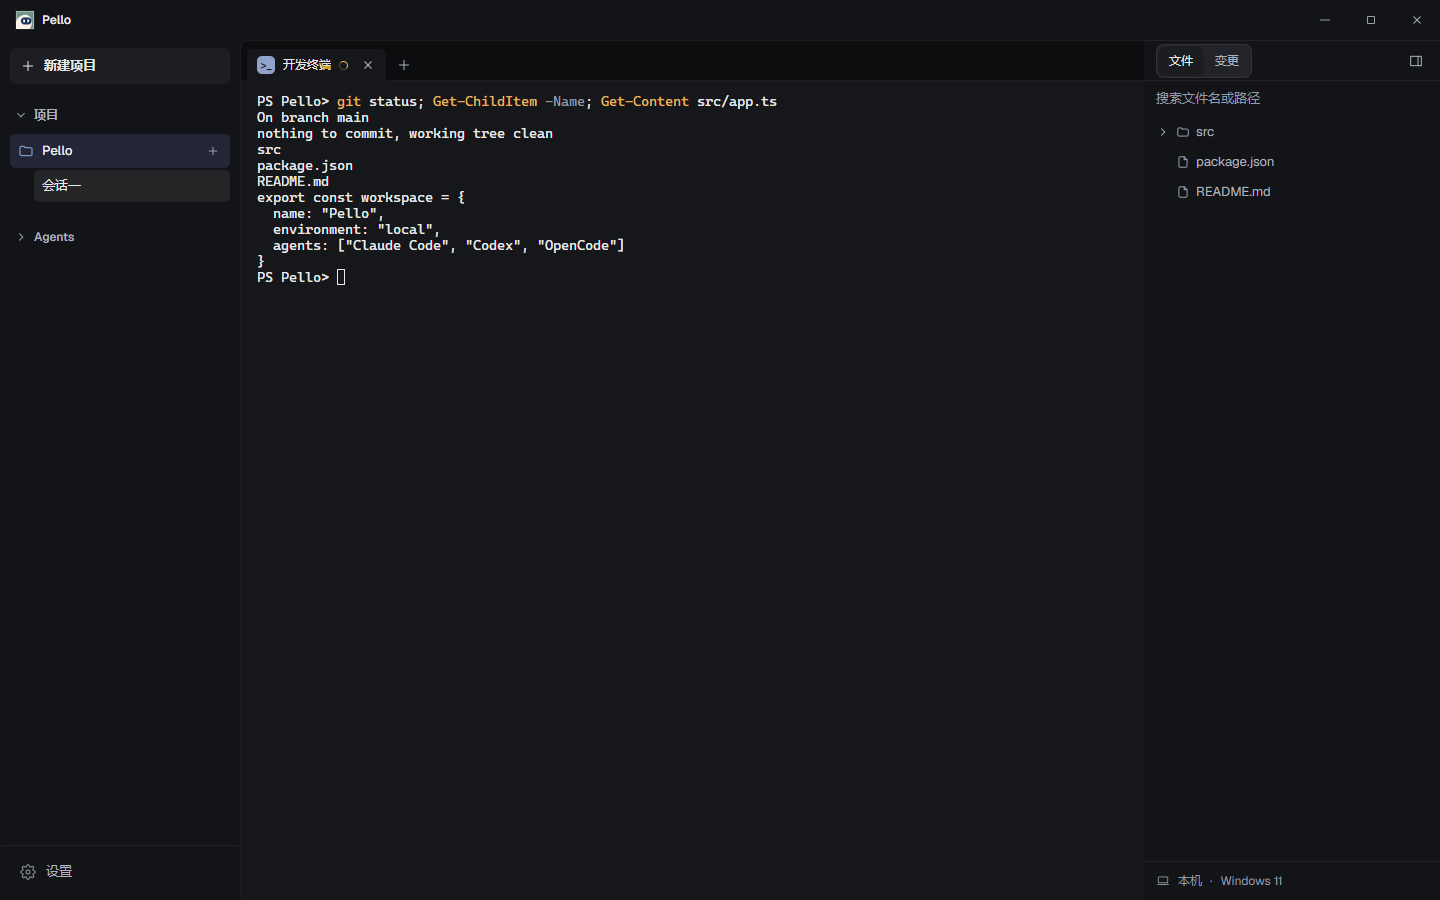
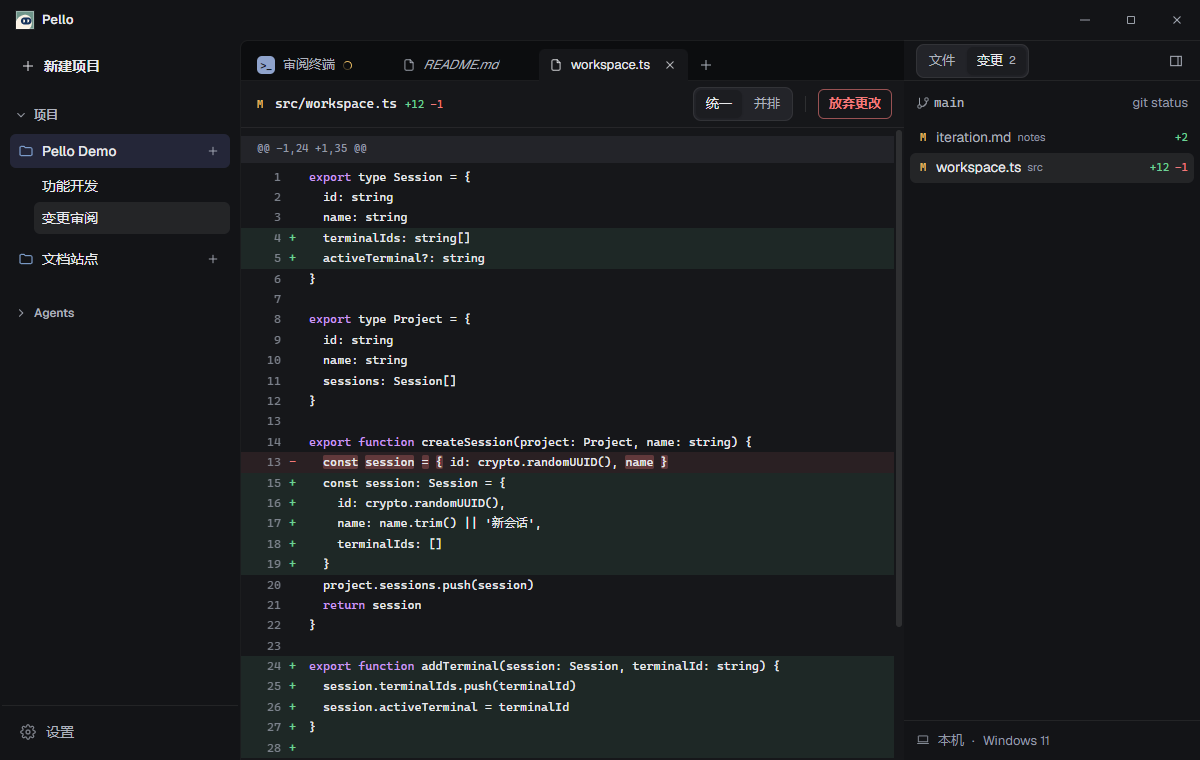
Improve README with real workflow screenshots and demo

diff --git a/README.md b/README.md
@@ -1,11 +1,11 @@
 <p align="center">
   <picture>
     <source media="(prefers-color-scheme: dark)" srcset="assets/logo-horizontal-dark.svg">
-    <img src="assets/logo-horizontal.svg" width="280" alt="Pello">
+    <img src="assets/logo-horizontal.svg" width="230" alt="Pello">
   </picture>
 </p>
 
-<p align="center">让 Code Agent、终端与项目文件待在同一个工作区。</p>
+<p align="center">在同一个工作区，运行 Agent、编辑文件、审阅变更。</p>
 <p align="center">
   <a href="https://github.com/FangYang970206/Pello/releases/latest">下载 Windows 版</a> ·
   <a href="https://github.com/FangYang970206/Pello/wiki">使用指南</a> ·
@@ -13,21 +13,39 @@
   <a href="https://github.com/FangYang970206/Pello/issues">反馈问题</a>
 </p>
 
-![Pello 深色界面：项目会话、终端与文件面板](assets/screenshots/workspace-dark.png)
+![Pello 实际界面，左侧切换项目与会话，中间审阅代码差异，右侧定位变更文件](assets/screenshots/workspace-dark.png)
 
-## Pello 能做什么
+<p align="center"><sub>一个示例项目，两组会话。从终端操作到代码审阅，不必离开工作区。</sub></p>
 
-- **集中管理 Agent**：Claude Code、OpenCode、Codex、Pi、Oh My Pi、自定义执行器及纯 Shell。
-- **按项目组织工作**：多个会话、多个终端，本机与 SSH 远程环境随时切换。
-- **就地处理文件**：文件树、Git 差异、Markdown 编辑、HTML 预览与远程传输。
-- **统一管理资源**：发现、导入和分发各 Agent 的 MCP 与 Skill，支持主题和字体设置。
+| 你的工作 | 在 Pello 里 |
+| --- | --- |
+| 运行 Agent | [本机或 SSH 项目，多会话、多终端](https://github.com/FangYang970206/Pello/wiki/Getting-Started) |
+| 处理项目文件 | [Git 差异、Markdown 编辑、HTML 预览](https://github.com/FangYang970206/Pello/wiki/Workspace) |
+| 配好 Agent 资源 | [原生 MCP / Skill 的发现、导入与分发](https://github.com/FangYang970206/Pello/wiki/Agent-Resources) |
 
-应用在本机运行，无需 Pello 账号或后端服务。Agent CLI 及其认证由你自行配置。
+支持 Claude Code、OpenCode、Codex、Pi、Oh My Pi、自定义执行器及纯 Shell。应用在本机运行，无需 Pello 账号；Agent CLI 及其认证自行配置。
 
 <details>
-<summary>查看浅色界面</summary>
+<summary>看 10 秒日常工作流</summary>
 
-![Pello 浅色界面](assets/screenshots/workspace-light.png)
+切换会话 → 预览文件 → 审阅变更 → 回到原终端。以下演示来自实际应用，使用独立示例项目。
+
+![Pello 日常工作流，五步演示会话切换、文件预览和代码差异](assets/demos/daily-workflow.gif)
+
+[查看静态界面](assets/screenshots/workspace-dark.png)
+
+</details>
+
+<details>
+<summary>更多界面：浅色编辑器与 MCP 管理</summary>
+
+**在工作区编辑 Markdown**
+
+![Pello 浅色主题中的 Markdown 编辑器，保留终端与文件标签](assets/screenshots/workspace-light.png)
+
+**按 Agent 管理 MCP**
+
+![Pello MCP 管理界面，展示原生配置中的示例服务器](assets/screenshots/resources.png)
 
 </details>
 
@@ -35,9 +53,10 @@
 
 从 [Releases](https://github.com/FangYang970206/Pello/releases/latest) 下载 Windows x64 安装包或 ZIP，安装或解压后运行。使用发行版无需 Node.js；Agent CLI、Git 与 SSH 按需安装。
 
-添加项目，选择本机或远程目录，再通过项目旁的 **＋** 选择执行器开始工作。更多操作见 [Wiki](https://github.com/FangYang970206/Pello/wiki)。
+第一次使用，跟着 [三个步骤启动终端](https://github.com/FangYang970206/Pello/wiki/Getting-Started)。
 
-## 开发
+<details>
+<summary>从源码开发</summary>
 
 需要 Node.js 20.19+ 或 22.13+。Windows 原生终端模块编译需要 Python 3 和 Visual Studio Build Tools 2022（C++ 桌面开发）。
 
@@ -49,3 +68,5 @@ npm run dev
 ```
 
 提交前运行 `npm run verify`；Windows 打包运行 `npm run dist:win`。详见 [开发指南](https://github.com/FangYang970206/Pello/wiki/Development) 和 [打包指南](https://github.com/FangYang970206/Pello/wiki/Windows-Build)。
+
+</details>
